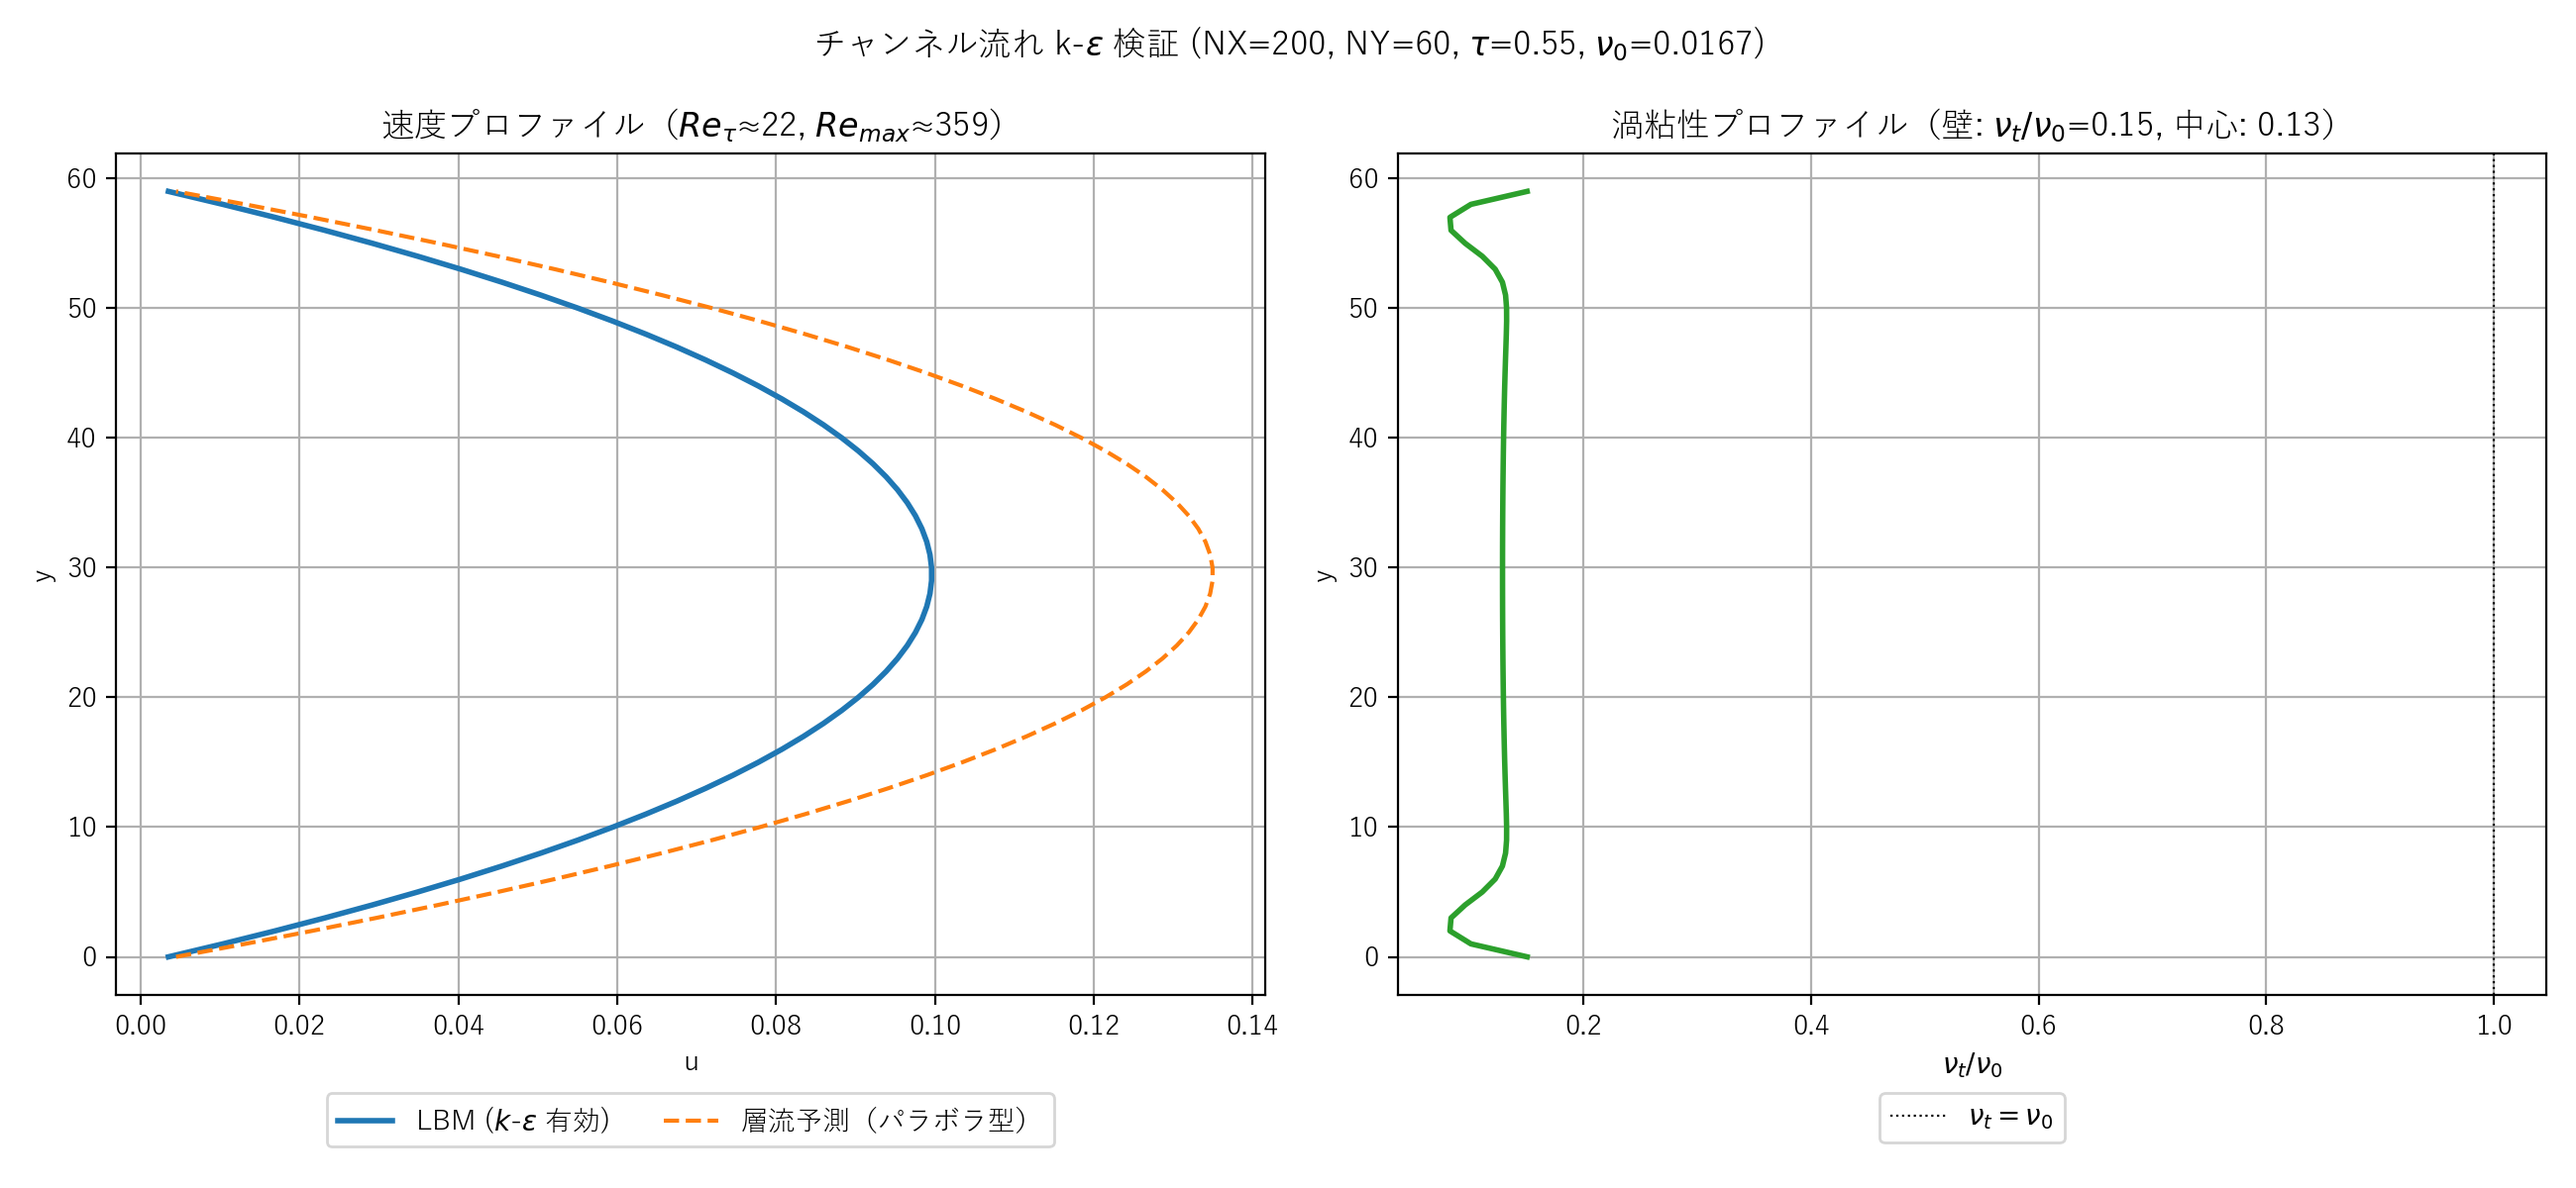
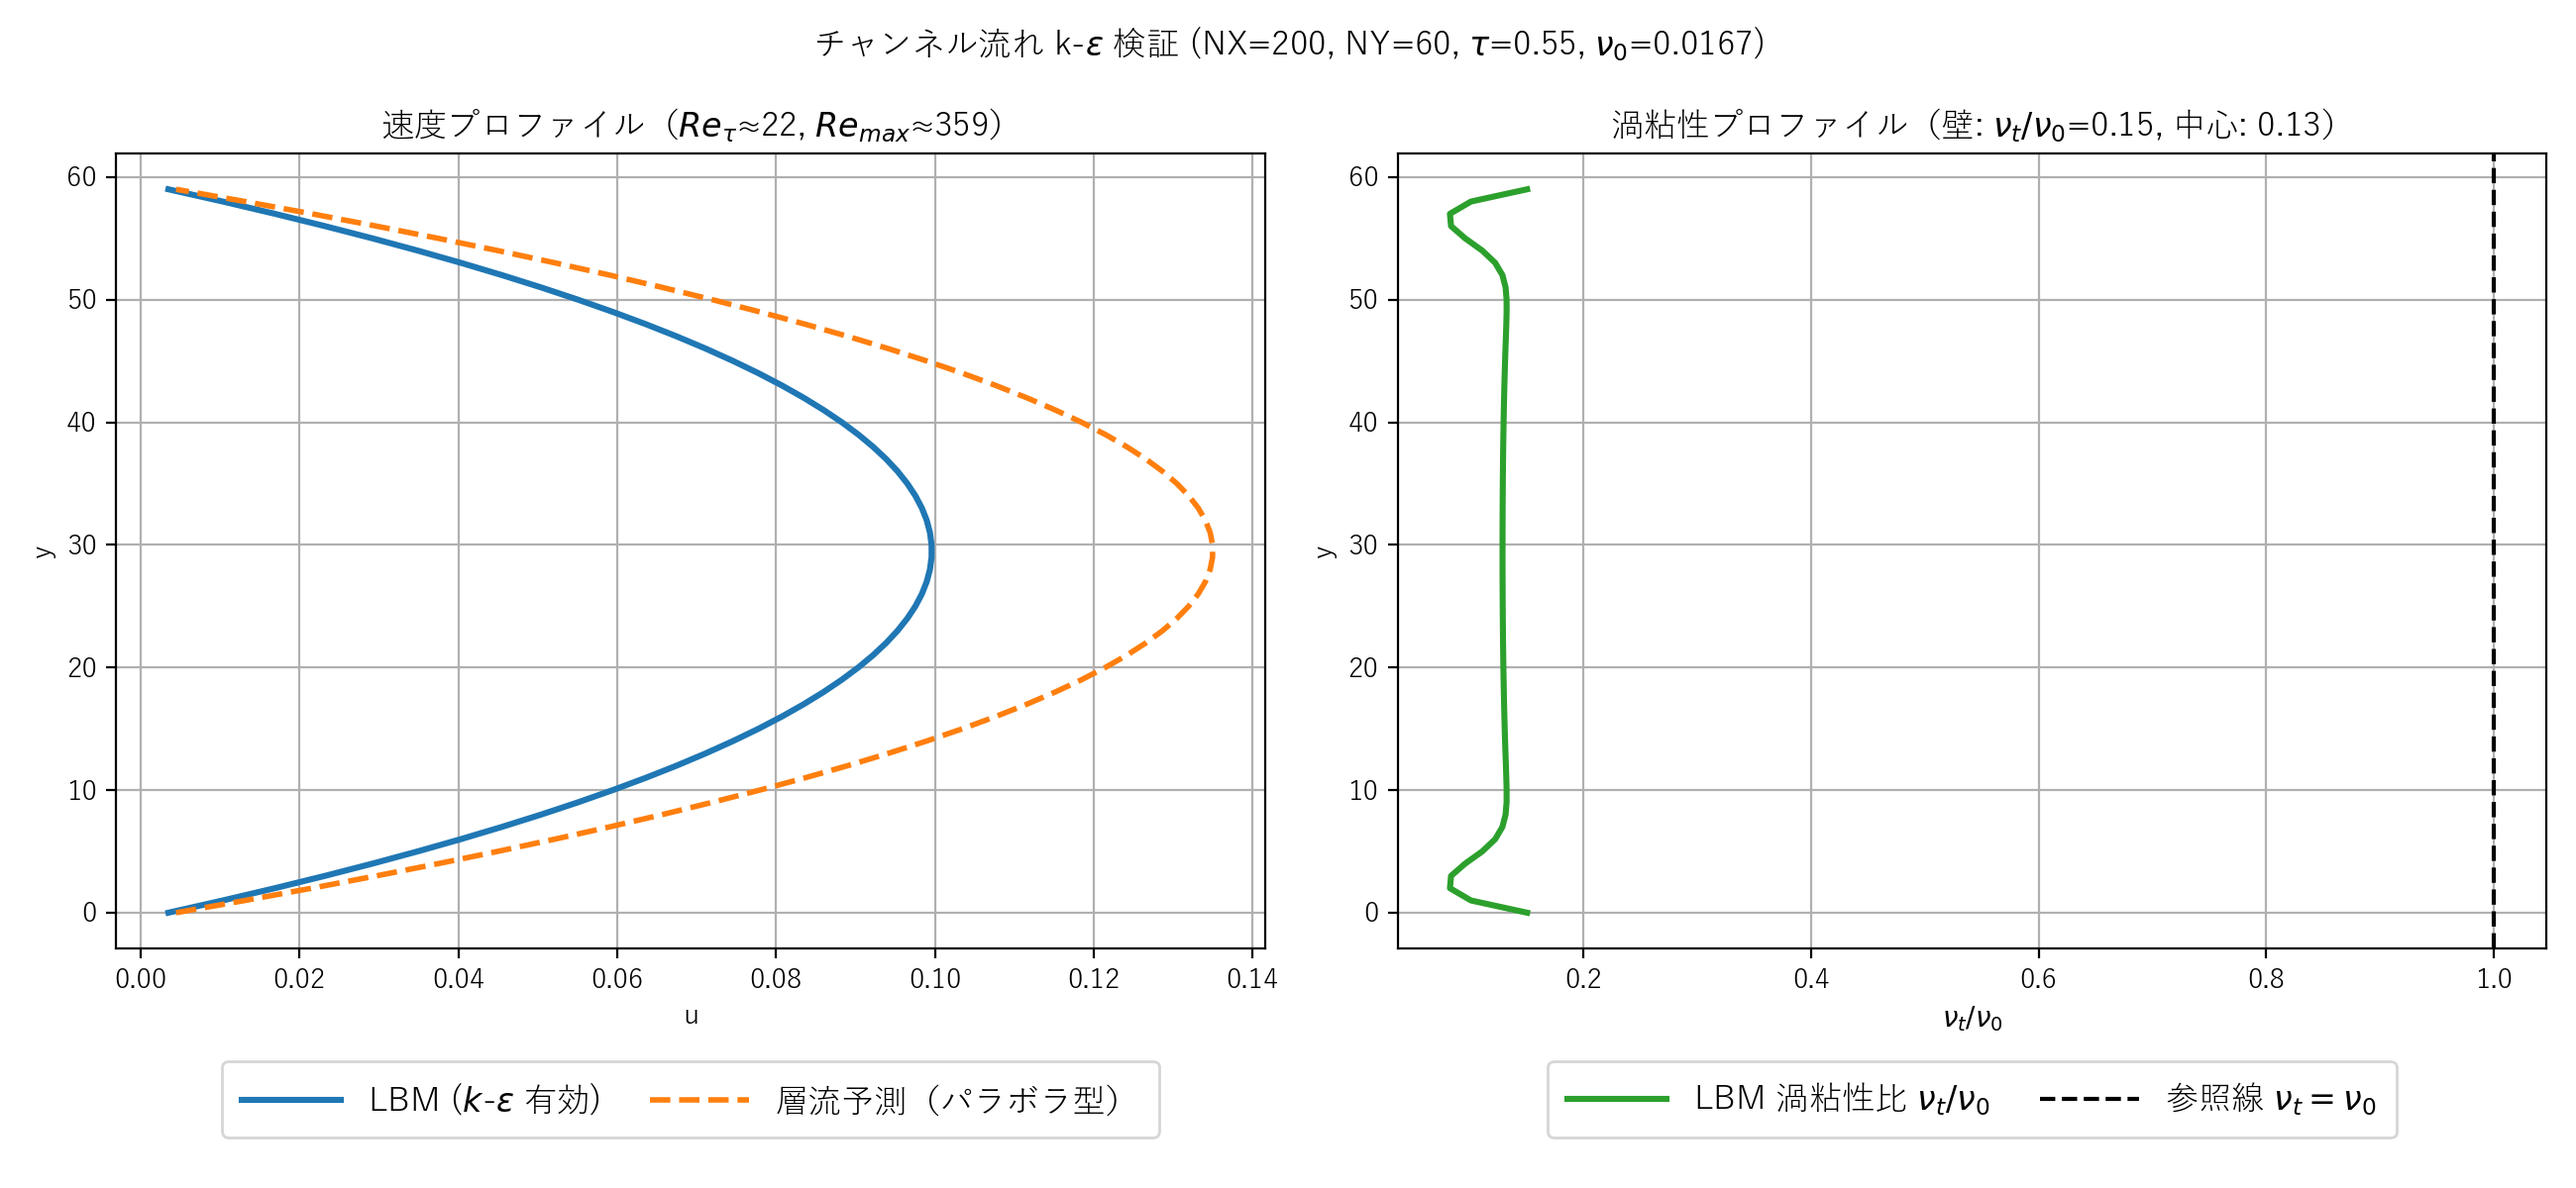
Improve legend visibility on kelbm verification plots
- plot_kelbm_compare_theory.py: the right subplot's nu_t/nu_0 curve had
  no legend entry — only the dotted nu_t = nu_0 reference line was
  labeled, and the dotted marker was thin enough to be near-invisible.
  Add an explicit label for the LBM eddy-viscosity-ratio curve, switch
  the reference line from a thin dotted style to a thicker dashed one,
  and bump legend fontsize to 12 with longer line handles.
- plot_kelbm_output.py: the four colorbars were stacked vertically next
  to each panel, taking up most of the figure and leaving the heatmaps
  cramped. Switch to horizontal colorbars beneath each panel, set
  aspect='auto', and widen the figure for a balanced 2x2 layout that
  matches the convention used in plot_kelbm_contour.py.
- Regenerate the two updated PNGs.

diff --git a/scripts/plot_kelbm_compare_theory.py b/scripts/plot_kelbm_compare_theory.py
@@ -43,25 +43,32 @@ Re_tau = u_tau * H_half / nu0
 
 fig, axes = plt.subplots(1, 2, figsize=(13, 6))
 
+LEGEND_KW = dict(
+    loc='upper center', bbox_to_anchor=(0.5, -0.12),
+    ncol=2, frameon=True, fontsize=12,
+    handlelength=3.0, handletextpad=0.8, columnspacing=1.5,
+    borderpad=0.6,
+)
+
 # (左) 速度プロファイル：LBM vs 層流予測
 ax = axes[0]
-ax.plot(u, y, lw=2, label='LBM ($k$-$\\varepsilon$ 有効)')
-ax.plot(u_lam, y, '--', lw=1.5, label='層流予測（パラボラ型）')
+ax.plot(u, y, lw=2.2, color='C0', label='LBM ($k$-$\\varepsilon$ 有効)')
+ax.plot(u_lam, y, '--', lw=2.0, color='C1', label='層流予測（パラボラ型）')
 ax.set_xlabel('u')
 ax.set_ylabel('y')
 ax.set_title(f'速度プロファイル（$Re_\\tau$≈{Re_tau:.0f}, $Re_{{max}}$≈{u.max()*NY/nu0:.0f}）')
 ax.grid(True)
-ax.legend(loc='upper center', bbox_to_anchor=(0.5, -0.10), ncol=2, frameon=True)
+ax.legend(**LEGEND_KW)
 
 # (右) 渦粘性プロファイル：ν_t / ν_0
 ax = axes[1]
-ax.plot(nut / nu0, y, lw=2, color='C2')
-ax.axvline(1.0, ls=':', color='k', lw=0.8, label='$\\nu_t = \\nu_0$')
+ax.plot(nut / nu0, y, lw=2.2, color='C2', label='LBM 渦粘性比 $\\nu_t/\\nu_0$')
+ax.axvline(1.0, ls='--', color='k', lw=1.5, label='参照線 $\\nu_t = \\nu_0$')
 ax.set_xlabel('$\\nu_t / \\nu_0$')
 ax.set_ylabel('y')
 ax.set_title(f'渦粘性プロファイル（壁: $\\nu_t/\\nu_0$={nut[0]/nu0:.2f}, 中心: {nut[len(nut)//2]/nu0:.2f}）')
 ax.grid(True)
-ax.legend(loc='upper center', bbox_to_anchor=(0.5, -0.10), ncol=1, frameon=True)
+ax.legend(**LEGEND_KW)
 
 plt.suptitle(f'チャンネル流れ k-$\\varepsilon$ 検証 (NX={NX}, NY={NY}, $\\tau$={TAU}, $\\nu_0$={nu0:.4f})')
 plt.tight_layout()

diff --git a/scripts/plot_kelbm_output.py b/scripts/plot_kelbm_output.py
@@ -27,22 +27,19 @@ v = to_grid('v')
 k = to_grid('k')
 eps = to_grid('epsilon')
 
-fig, axs = plt.subplots(2, 2, figsize=(10, 9))
-im0 = axs[0, 0].imshow(u, origin='lower', cmap='jet')
-axs[0, 0].set_title('u (x方向速度)')
-plt.colorbar(im0, ax=axs[0, 0])
-
-im1 = axs[0, 1].imshow(v, origin='lower', cmap='jet')
-axs[0, 1].set_title('v (y方向速度)')
-plt.colorbar(im1, ax=axs[0, 1])
-
-im2 = axs[1, 0].imshow(k, origin='lower', cmap='plasma')
-axs[1, 0].set_title('k (乱流エネルギー)')
-plt.colorbar(im2, ax=axs[1, 0])
-
-im3 = axs[1, 1].imshow(eps, origin='lower', cmap='plasma')
-axs[1, 1].set_title(r'$\varepsilon$ (散逸率)')
-plt.colorbar(im3, ax=axs[1, 1])
+fig, axs = plt.subplots(2, 2, figsize=(12, 7))
+panels = [
+    (axs[0, 0], u,   'jet',    'u (x方向速度)'),
+    (axs[0, 1], v,   'jet',    'v (y方向速度)'),
+    (axs[1, 0], k,   'plasma', 'k (乱流エネルギー)'),
+    (axs[1, 1], eps, 'plasma', r'$\varepsilon$ (散逸率)'),
+]
+for ax, arr, cmap, title in panels:
+    ax.set_title(title)
+    ax.set_xlabel('x')
+    ax.set_ylabel('y')
+    im = ax.imshow(arr, origin='lower', cmap=cmap, aspect='auto')
+    fig.colorbar(im, ax=ax, orientation='horizontal', pad=0.18, fraction=0.06)
 
 plt.tight_layout()
 fname = 'kelbm_output_overview.png'
